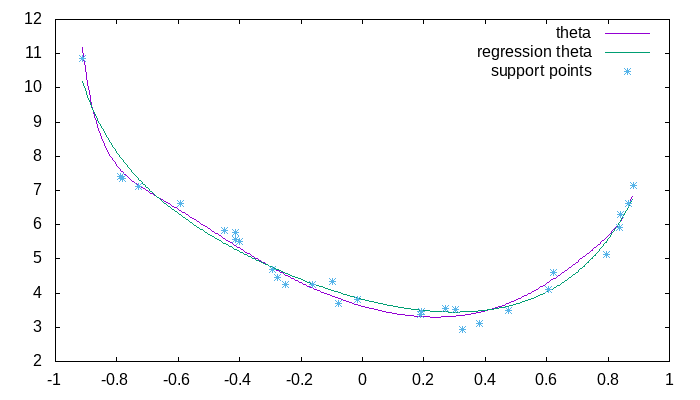
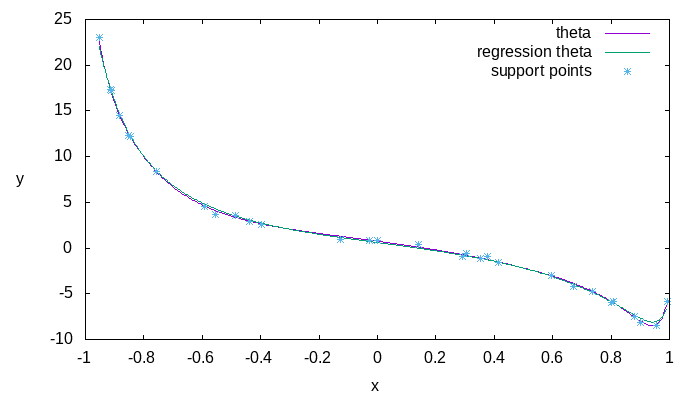
add labels to plots

diff --git a/src/plot.cpp b/src/plot.cpp
@@ -61,6 +61,8 @@ void plotCurves(const Samples& samples, const Eigen::VectorXf& computedTheta) {
   Gnuplot gp;
   gp << "set terminal png size 700,400\n";
   gp << "set output 'theta_plot.png'\n";
+  gp << "set xlabel 'x'\n";
+  gp << "set ylabel 'y' rotate by 0\n";
   gp << "plot" << gp.file1d(pointsOrigTheta) << "with lines title 'theta'," << gp.file1d(pointsComputedTheta)
      << "with lines title 'regression theta'," << gp.file1d(supportPoints) << "with points title 'support points'\n";
   gp << "set output\n";
@@ -77,6 +79,8 @@ void plotTheta(const Eigen::VectorXf& theta) {
   Gnuplot gp;
   gp << "set terminal png size 700,400\n";
   gp << "set output 'theta_coefficients.png'\n";
+  gp << "set xlabel 'degree'\n";
+  gp << "set ylabel 'coefficient'\n";
   gp << "plot" << gp.file1d(points) << "with points title 'coefficients of theta',\n";
   gp << "set output\n";
 }
@@ -123,6 +127,7 @@ void plotDensity(const std::vector<float>& data, const float h) {
   gp << "set terminal png size 1400,800\n";
   gp << "set output 'density.png'\n";
   gp << "set yrange [0.0 : 5.0]\n";
+  gp << "set xlabel 'accuracy'\n";
   gp << "plot" << gp.file1d(curve) << "with lines title 'density of accuracy',\n";
   gp << "set output\n";
 }

diff --git a/include/constants.hpp b/include/constants.hpp
@@ -26,7 +26,7 @@ inline const unsigned int GRID_POINTS = 400;
 namespace KERNELESTIMATE {
 inline const float START        = 0.0f;
 inline const float END          = 1.0f;
-inline const float REL_BANDWITH = 6.0f;
+inline const float REL_BANDWITH = 9.0f;
 }  // namespace KERNELESTIMATE
 
 inline const unsigned int BYTESIZE = 1;
